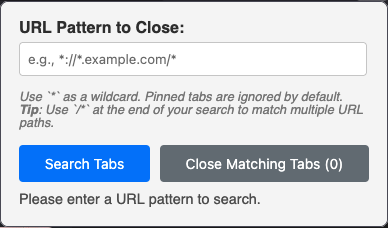
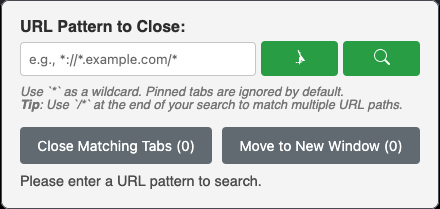
improve readme

diff --git a/README.md b/README.md
@@ -1,6 +1,7 @@
 # Regex Tab Closer
 
-Instantly close multiple browser tabs using the power of regular expressions.
-Match by URL or title to clean up your workspace in seconds.
+Declutter your browser instantly. This tool uses **regular expressions** to
+close multiple tabs or move them to a new window, matching by URL to give you a
+clean, organized workspace in seconds.
 
 ![Screenshot](screenshot1.png)
